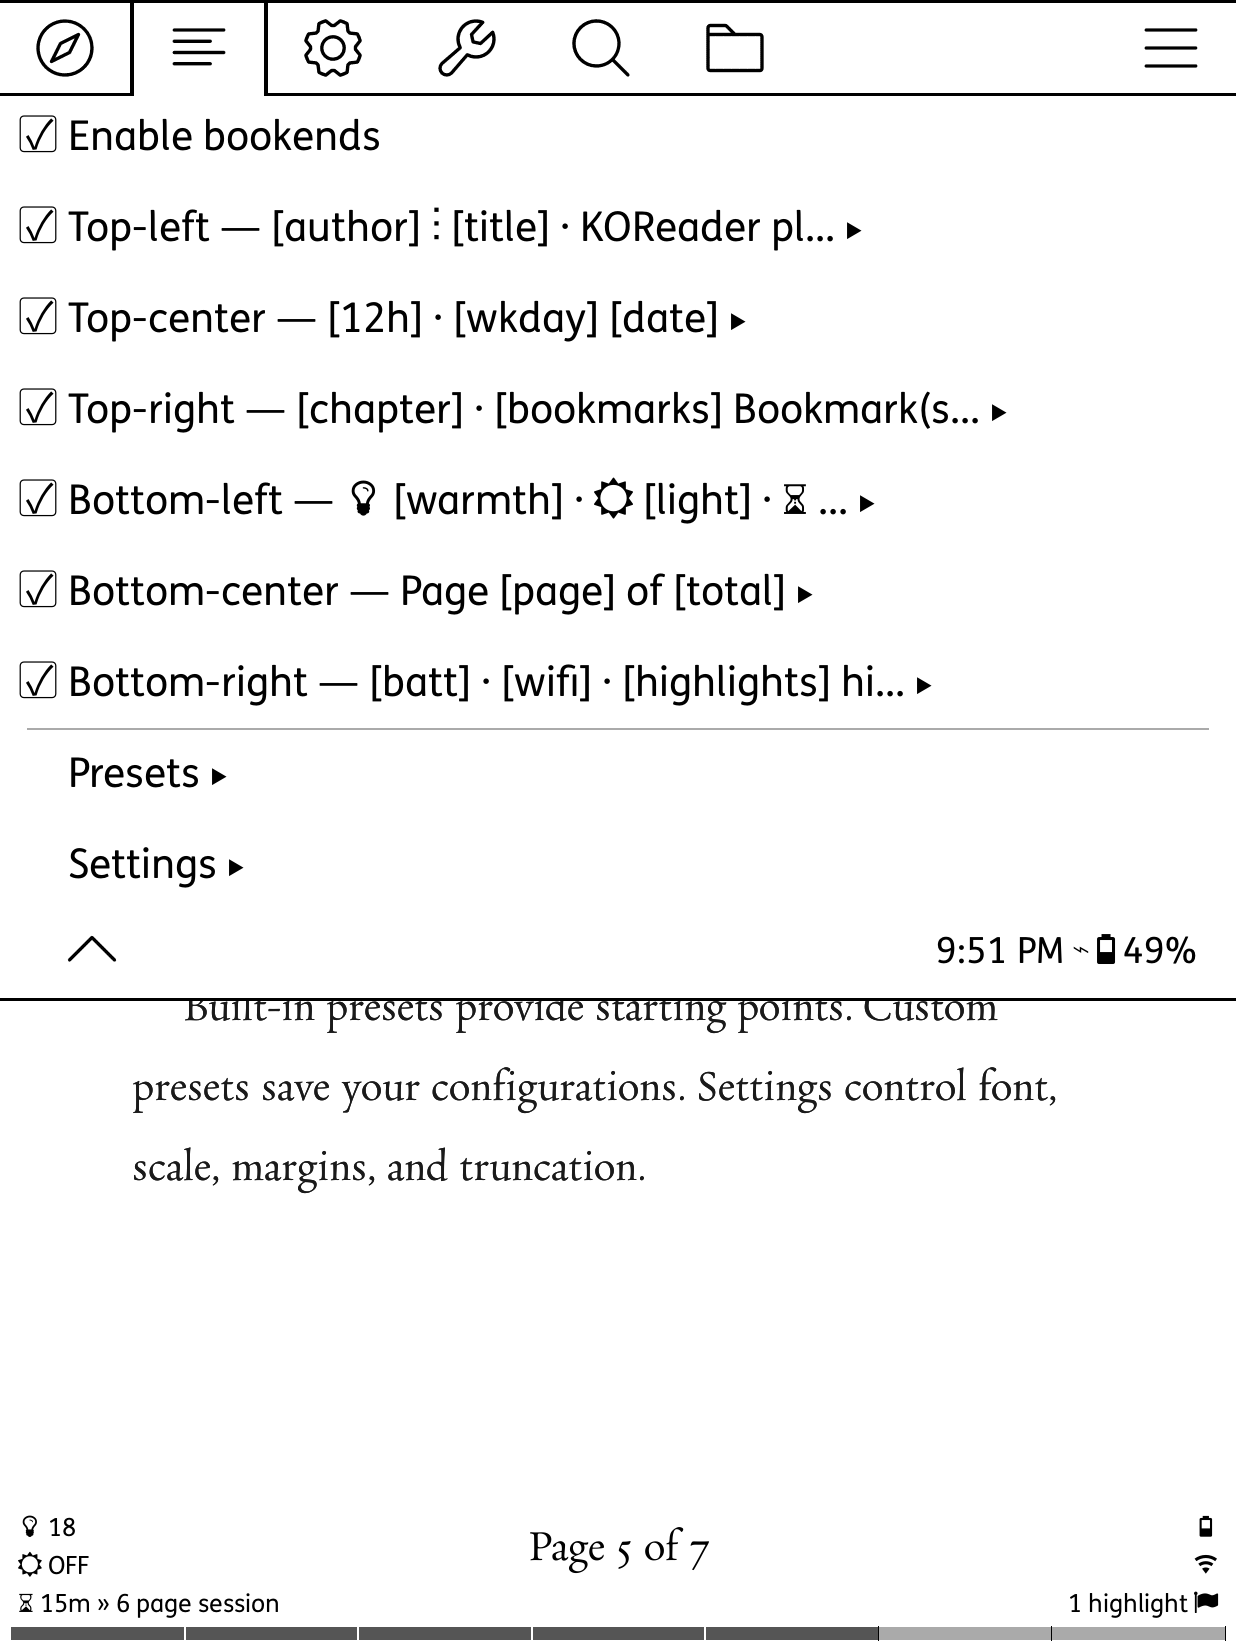
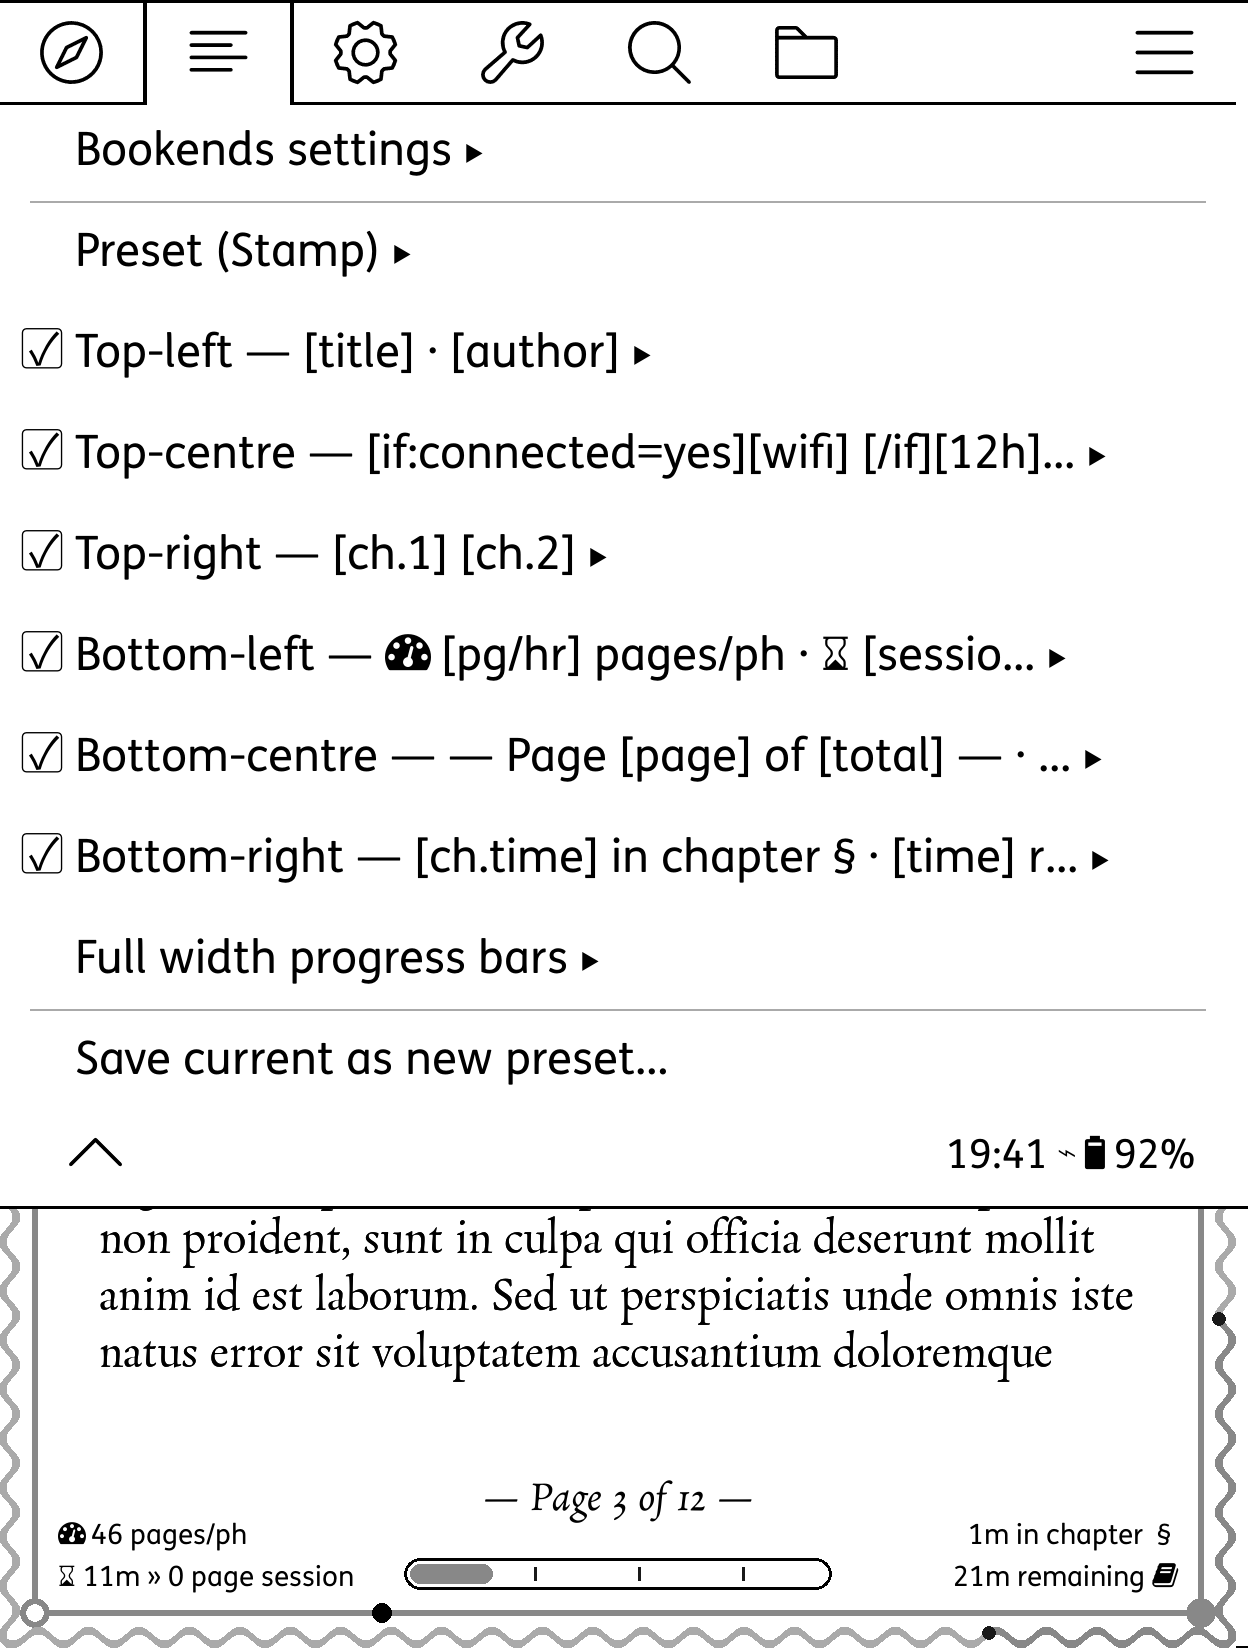
docs(readme): replace screenshot grid with three fresh captures
Captured fresh from the device: the Bookends dropdown menu open over
the Stamp preset's overlay (showing both the menu structure and a real
overlay rendering in one frame), the line editor mid-edit on a body
page with the same Stamp preset including a top-right radial bar, and
the Preset library on the Gallery tab sorted by Popular.

Drops the older grid (title-page, token-picker, icon-picker /
symbol-picker, adjust-margins, progress-bars-styles, the showcase
line-editor variant) — all stale and replaced with three current shots.
README screenshot grid is now a single row of three.

diff --git a/README.md b/README.md
@@ -11,17 +11,9 @@ Customisable text overlays for KOReader — page numbers, reading stats, progres
 
 ### Screenshots
 
-| Title page | Main menu | Token picker |
+| Main menu | Line editor | Preset gallery |
 |:---:|:---:|:---:|
-| ![Title page](screenshots/title-page.png) | ![Main menu](screenshots/main-menu.png) | ![Token picker](screenshots/token-picker.png) |
-
-| Symbol picker | Adjust margins |
-|:---:|:---:|
-| ![Symbol picker](screenshots/icon-picker.png) | ![Adjust margins](screenshots/adjust-margins.png) |
-
-| Line editor | Progress bar styles |
-|:---:|:---:|
-| ![Line editor](screenshots/line-editor.png) | ![Progress bar styles](screenshots/progress-bars-styles.png) |
+| ![Main menu](screenshots/main-menu.png) | ![Line editor](screenshots/line-editor.png) | ![Preset gallery](screenshots/preset-gallery.png) |
 
 ### Quick start
 
